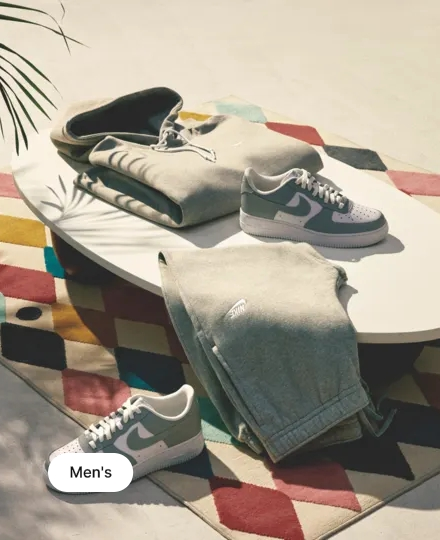
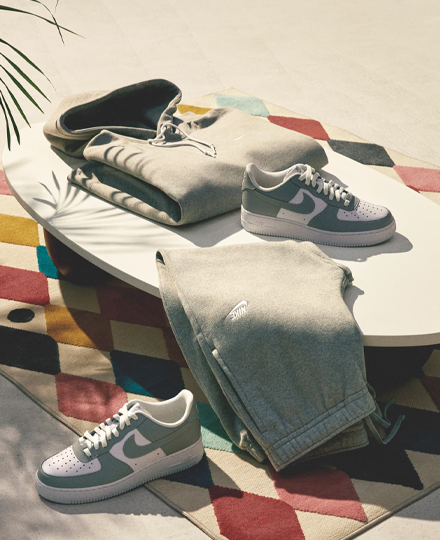
почти ззакончила верстку

Changed region(s): [[0.0, 0.0, 1.0, 1.0], [0.9159, 0.7407, 1.0, 0.7704]]

diff --git a/index.html b/index.html
@@ -79,14 +79,23 @@
                 <button class="cursor_pointer promo-action-button font_regular">Shop</button>
             </div> 
         </section>
-        <section class="margin__top_3rem flex__justify_between">
-            <img src="assets/img/menu1.jpeg" alt="меню">
-            <img src="assets/img/menu2.jpeg" alt="меню">
-            <img src="assets/img/menu3.jpeg" alt="меню">
-        </section>
+        <section class="margin__top_3rem grid grid_columns gap_1-5rem">
+            <div class="relative">
+                <img class="width-100" src="assets/img/menu1.jpeg" alt="баннер">                
+                <a class="absolute menu-action-link font_regular" href="#">Men's</a>
+            </div>
+            <div class="relative">
+                <img class="width-100" src="assets/img/menu2.jpeg" alt="баннер">
+                <a class="absolute menu-action-link font_regular" href="#">Women's</a>                
+            </div>
+            <div class="relative">
+                <img class="width-100" src="assets/img/menu3.jpeg" alt="баннер">
+                <a class="absolute menu-action-link font_regular" href="#">Kids'</a>                
+            </div>
+        </section>        
         <section>
-            <nav class="flex flex__justify_center margin__top_3rem gap_10rem">
-                <ul class="drop__list-element-style font_regular"> 
+            <nav class="flex flex__justify_center margin__top_3rem gap_5rem line_height">
+                <ul class="drop__list-element-style font_regular "> 
                         <li>NEW</li>
                         <li><a class="menu-text" href="#">Air Force 1</a></li>
                         <li><a class="menu-text" href="#">Huarache</a></li>
@@ -117,5 +126,53 @@
             </nav>
         </section>
     </main>
+    <footer class="footer-style">
+        <div class="container flex flex__justify_between">
+            <nav class="flex gap_5rem margin__top_2rem line_height">
+                <ul class="drop__list-element-style font_regular margin__top_2rem">
+                    <li>FIND A STORE</li>
+                    <li>BECOME A MEBER</li>
+                    <li>SING UP FOR EMAIL</li>
+                    <li>SEND US FEEDBACK</li>
+                    <li>STUDENT DISCOUNTS</li>
+                </ul>
+                <ul class="drop__list-element-style font_regular margin__top_2rem">
+                    <li>GET HELP</li>
+                    <li>Order Status</li>
+                    <li>Delivery</li>
+                    <li>Returns</li>
+                    <li>Payment Options</li>
+                    <li>Contact Us On Nike.com Inquiries</li>
+                    <li>Contact Us On All Other Inquiries</li>
+                </ul>
+                <ul class="drop__list-element-style font_regular margin__top_2rem">
+                    <li>ABOUT</li>
+                    <li>NIKE</li>
+                    <li>Careers</li>
+                    <li>Investors</li>
+                    <li>Sustainability</li>
+                </ul>
+            </nav>
+            <div class="smm-links margin__top_2rem">
+                <button class="cursor_pointer background_transparent no-border no-outline"><img src="assets/img/icons/twitter.svg"></button>
+                <button class="cursor_pointer background_transparent no-border no-outline"><img src="assets/img/icons/facebook.svg"></button>
+                <button class="cursor_pointer background_transparent no-border no-outline"><img src="assets/img/icons/youtube.svg"></button>
+                <button class="cursor_pointer background_transparent no-border no-outline"><img src="assets/img/icons/instagram.svg"></button>
+            </div>       
+        </div>  
+        <div class="container padding font_regular flex flex__justify_between">
+            <div>
+                <img src="assets/img/icons/map.svg" alt="карта4">
+                <a class="footer-style" href="#">India</a><span class="margin__left_2rem ">© 2023 Nike, Inc. All Rights Reserved</span>
+            </div>         
+            <ul class="flex drop__list-element-style font_regular">            
+                <li class="margin__left_2rem">Guides</li>
+                <li class="margin__left_2rem">Terms of Sale</li>
+                <li class="margin__left_2rem">Terms of Use</li>
+                <li class="margin__left_2rem">Nike Privacy Policy</li>
+            </ul>        
+        </div>
+           
+    </footer>
 </body>
 </htm

diff --git a/assets/style/utils.css b/assets/style/utils.css
@@ -33,14 +33,30 @@
 }
 
 .drop__list-element-style {
-    list-style-type: none;
+    list-style-type: none;    
 }
+
+.grid {
+    display: grid;
+}
+
+.grid_columns {
+    grid-template-columns: 1fr 1fr 1fr;
+}
+
 .gap_1-5rem {
     gap: 1.5rem;
 }
 
+.gap_5rem {
+    gap: 5rem;
+}
 .gap_10rem {
     gap: 10rem;
+}
+
+.gap_29rem {
+    top: 29rem;
 }
 
 .cursor_pointer {
@@ -51,12 +67,20 @@
     position: relative;
 }
 
+.absolute {
+    position: absolute;
+}
+
 .margin__top_2rem {
     margin-top: 2rem;
 }
 
 .margin__top_3rem {
     margin-top: 3rem;
+}
+
+.margin__left_2rem {
+    margin-left: 2rem;
 }
 
 .background_transparent {
@@ -75,8 +99,16 @@
     margin: 0;
 }
 
+.line_height {
+    line-height: 2rem;
+}
+
 .no-padding {
     padding: 0;
+}
+
+.padding {
+    padding: 1rem;
 }
 
 .text-align_center {

diff --git a/assets/style/style.css b/assets/style/style.css
@@ -26,6 +26,10 @@
     font-size: 1rem;
     line-height: 1.2;
 }*/
+body {
+    margin: 0;
+    padding: 0;
+}
 
 a {
     color: black;
@@ -73,6 +77,18 @@ a {
     padding: 0.5rem 1.5rem 0.5rem 1.5rem;
     }
 
+.menu-action-link {
+    border-radius: 100px;
+    border-color: rgb(255, 255, 255);
+    font-size: 1rem;
+    color: rgb(17, 17, 17);
+    background: rgb(255, 255, 255);
+    left: 20px;
+    bottom: 40px;      
+    padding: 0.5rem 1.5rem 0.5rem 1.5rem;
+    }    
+    
+
 .under-banner-title {
     margin-left: 39px;
 }
@@ -84,5 +100,10 @@ a {
 
 .menu-text {
     color: rgb(117, 117, 117);
+}
+.footer-style {
+    background: rgb(17, 17, 17);
+    color: rgb(255, 255, 255);
+    font-size: 0.7rem;
 }
     
